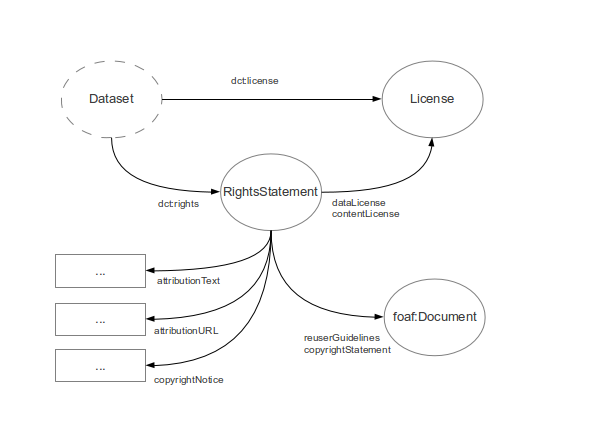
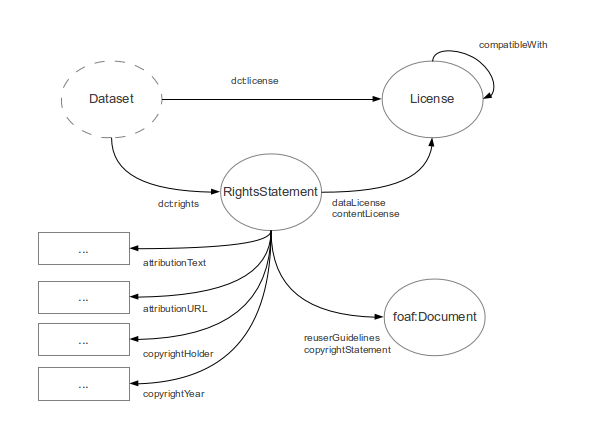
Added related work; compatibleWith; and changed copyrightNotice to copyrightHolder/Year

diff --git a/examples/rdfa-copyright-notice.html b/examples/rdfa-copyright-notice.html
@@ -17,7 +17,8 @@
 
                 <p>When re-using or distributing this data please preserve the 
                    following copyright notice: "
-                    <span property="odrs:copyrightNotice">© Crown copyright 2013. Example Department
+                    © <span property="odrs:copyrightNotice">Crown copyright</span> 
+                      <span property="odrs:copyrightYear">2013</span>. Example Department
                     </span>".
                 </p>
 

diff --git a/guides/publisher-guide.md b/guides/publisher-guide.md
@@ -95,27 +95,29 @@ The goal of the ODRS vocabulary, and for machine-readable dataset metadata in ge
 
 Copyright notices are another important item of metadata that might usefully be added to a rights statement. Some open licenses, particularly those from the Creative Commons state that re-users should display any copyright notices provided by publishers.
 
-If you hold copyright over some part of your dataset, you may wish to publish a copyright notice for re-users. This can be useful as it will support re-users in displaying or referencing a copyright notice or preserving a notice when redistributing data, if this is allowed by your data license.
+If you hold copyright over some part of your dataset, you _may_ wish to publish a copyright notice for re-users. This can be useful as it will support re-users in displaying or referencing a copyright notice or preserving a notice when redistributing data, if this is required by your licenses.
 
-The ODRS vocabulary includes two terms for capturing copyright notice information:
+The ODRS vocabulary includes several terms for capturing copyright notice information:
 
-* `copyrightNotice` -- this property allows a data publisher to specify a short copyright notice that can be used directly.
-* `copyrightStatement` -- this property allows you specify a URL for the copyright statement. This can be used an alternative to `copyrightNotice`, instead providing a link to a web page that describes the copyright status of the dataset and any relevant notices. A re-user would link to this page, rather than including your copyright notice. This can be useful if your copyright notices are lengthy, e.g. if you have to reference several sources.
+* `copyrightHolder` and `copyrightYear` -- allows the copyright holder to be named, along with the year from which the copyright is claim.
+* `copyrightStatement` -- this property allows you specify a URL for the copyright statement. This can be used an alternative to the other properties, providing a link to a web page that describes the copyright status of the dataset and any relevant notices. A re-user would link to this page, rather than including your copyright notice. This can be useful if your copyright notices are lengthy, e.g. if you have to reference several sources.
 
-As a general guide you should keep your copyright notices short and the text should be distinct from your `attributionText`. Wikipedia includes some notes on the [technical requirements for copyright notices](http://en.wikipedia.org/wiki/Copyright_notice#Technical_requirements) and there is generally specific advice available from your national copyright agency. See for example [guidance from the UK Copyright Service](http://www.copyrightservice.co.uk/copyright/p03_copyright_notices) and [the US Copyright Office](http://www.copyright.gov/circs/circ03.pdf).
+Copyright notices are distinct from attribution text. Wikipedia provides some notes on the [technical requirements for copyright notices](http://en.wikipedia.org/wiki/Copyright_notice#Technical_requirements) and there is generally specific advice available from your national copyright agency. See for example [guidance from the UK Copyright Service](http://www.copyrightservice.co.uk/copyright/p03_copyright_notices) and [the US Copyright Office](http://www.copyright.gov/circs/circ03.pdf).
 
-Generally, unless there is specific guidance that applies to your organisation or region, then it is recommended that a copyright notice consist of:
+The general convention for copyright notices is that they consist of:
 
 * The phrase "_Copyright_"
-* The copyright symbol
+* and/or the copyright symbol
 * The year of copyright
 * The copyright owners name, or a well-known alias
 
 E.g. "_Copyright © 2013. Example, Ltd_".
 
-The copyright owners name may overlap with the attribution text, but may also be different. The attribution text should not contain a copyright symbol or the word "Copyright" and instead be the name of the organisation or group who should be attributed. Separately and clearly marking up these different elements will provide more flexibility for re-users.
+This format can be easily created from the `copyrightHolder` and `copyrightYear` properties, whilst also supporting other uses of that information.
 
-For example an `attributionText` of _Dept of Data_ and _© Crown copyright 2013_ could be combined in several ways, e.g.:
+Attribution text should be distinct from copyright notices. Attribution text should not contain a copyright symbol or the word "Copyright". It should instead be the name of the organisation or group whose work should be attributed. Separately and clearly marking up these different elements will provide more flexibility for re-users.
+
+For example an `attributionText` of _Dept of Data_, a `copyrightHolder` of _Crown copyright_ and a `copyrightYear` of _2013_ could be combined in several ways, e.g.:
 
 * To create a phrase to be added in a web page footer: _Uses data from Dept. of Data. © Crown copyright 2013_
 * To build an attribution link for a data element on a page (_Data from Dept. of Data_), whilst the copyright statement is referenced in the footer of the page (_© Crown copyright 2013. Dept of Data_)
@@ -285,8 +287,8 @@ The ODRS vocabulary captures copyright information separately to attribution tex
 
                 <p>When re-using or distributing this data please preserve the 
                    following copyright notice: "
-                    <span property="odrs:copyrightNotice">© Crown copyright 2013. Example Department
-                    </span>".
+                    © <span property="odrs:copyrightHolder">Crown copyright</span> 
+                    <span property="odrs:copyrightYear">2013</span>.".
                 </p>
 
                 <p>If you would like to attribute your use of this dataset, 
@@ -310,7 +312,7 @@ The ODRS vocabulary captures copyright information separately to attribution tex
             <!-- additional markup with further description of dataset -->
         </div>        
 
-The Rights Statement includes a `odrs:copyrightNotice` property in addition to the attribution properties used in the previous examples. An application might choose to display the copyright notice differently to the attribution text, e.g. including it in a general copyright notice section of the application website or in a copyright statement document included in a re-distributed version of the dataset.
+The Rights Statement includes both the `odrs:copyrightHolder` and `odrs:copyrightYear` properties in addition to the attribution properties used in the previous examples. An application might choose to display the copyright notice differently to the attribution text, e.g. including it in a general copyright notice section of the application website or in a copyright statement document included in a re-distributed version of the dataset.
 
 In some cases it may be more suitable to provide a link to a copyright statement, e.g. if the text of the copyright notice is lengthy or subject to change. In this case the `odrs:copyrightStatement` property can be used instead. The following rights statement illustrates use of this property:
 
@@ -456,7 +458,8 @@ The following example illustrates how add a copyright notice and a reference to 
     :example3-rights-statement
         a odrs:RightsStatement;
         rdfs:label "Rights relating to re-use of the Example Dataset" ;
-        odrs:copyrightNotice "Crown copyright 2013";
+        odrs:copyrightHolder "Crown copyright";
+        odrs:copyrightYear "2013";
         odrs:reuserGuidelines <http://gov.example.org/reuser-guide>;
         odrs:dataLicense <http://reference.data.gov.uk/id/open-government-licence> ;
         odrs:attributionText "Example Department" ;
@@ -489,6 +492,8 @@ The following example illustrates how to combine [the Creative Commons vocabular
 The above example includes a rights statement that refers to a custom licence. The licence is described using terms from the Creative Commons vocabulary including a link to its legal definition and a series of permissions and requirements. 
 
 This particular licence is a variation of the CC-BY licence: it permits the creation of derivative works, distribution and reproduction of the data and the re-user must include all copyright notices and license derivatives using similar terms; but there is no _legal_ requirement to include attribution.
+
+Like `ccREL` the [ODRL](http://www.w3.org/community/odrl/) vocabulary aims to provide more detailed expression of re-use policies and can be similarly combined with the ODRS vocabulary.
 
 ### Linking to Rights Statements from Web APIs
 
@@ -527,7 +532,8 @@ The following example shows a simple JSON object that describes a simple, standa
         {
             "contentLicense": "http://reference.data.gov.uk/id/open-government-licence",
             "dataLicense": "http://reference.data.gov.uk/id/open-government-licence",
-            "copyrightNotice": "© Crown copyright 2013",
+            "copyrightNotice": "Crown copyright",
+            "copyrightYear": "2013",
             "attributionText": "Example Department",
             "attributionURL": "http://gov.example.org/dataset/example"
         }
@@ -542,7 +548,8 @@ To include a rights statement in a document that also, for example, describes a 
             "rights": {
                 "contentLicense": "http://reference.data.gov.uk/id/open-government-licence",
                 "dataLicense": "http://reference.data.gov.uk/id/open-government-licence",
-                "copyrightNotice": "© Crown copyright 2013",
+                "copyrightNotice": "Crown copyright",
+                "copyrightYear": "2013",
                 "attributionText": "Example Department",
                 "attributionURL": "http://gov.example.org/dataset/example"
             }
@@ -601,7 +608,8 @@ The JSON-LD context available from `http://schema.theodi.org/odrs/odrs-jsonld.js
                 "@id": "http://schema.theodi.org/odrs#copyrightStatement",
                 "@type": "@id"
             },
-            "copyrightNotice": "http://schema.theodi.org/odrs#copyrightNotice",
+            "copyrightHolder": "http://schema.theodi.org/odrs#copyrightHolder",
+            "copyrightYear": "http://schema.theodi.org/odrs#copyrightYear",
             "attributionText": "http://schema.theodi.org/odrs#attributionText"
         }
     }
@@ -629,7 +637,8 @@ The following final example shows a single JSON-LD document that contains a desc
         "dct:rights": {
             "rdfs:label": "Rights Statement",
             "@id": "http://gov.example.org/dataset/example#rights",
-            "odrs:copyrightNotice": "© Crown copyright 2013",
+            "odrs:copyrightHolder": "Crown copyright",
+            "odrs:copyrightYear": "2013", 
             "odrs:attributionText": "Example Department",
             "odrs:attributionURL": {
                 "@id": "http://gov.example.org/dataset/example"

diff --git a/schema/introduction.md b/schema/introduction.md
@@ -21,8 +21,10 @@ There are several existing vocabularies cover similar goals, but all have their 
 * [Dublin Core](http://dublincore.org/documents/dcmi-terms/) distinguishes between a licence (`dct:License`) and a rights statement (`dct:RightsStatement`) and provides terms for relating a work to a machine-readable descriptions of these documents using the `dct:rights` and `dct:license` properties.
 * The [Creative Commons vocabulary](http://creativecommons.org/ns) (ccRel) supports the publication of machine-readable descriptions of broad classes of requirements, permissions and prohibitions that are associated with licences. It also includes some terms to support attribution.
 * The [Waiver](http://vocab.org/waiver/terms/.html) vocabulary supports the association of public domain waivers and community norms with a dataset
+* The [Open Data Rights Language](http://www.w3.org/community/odrl/) (ODRL) provides a standard means for expressing policies relating to the publishing, distribution and consumption of digital media.
+* Similarly, the [L4LOD](http://ns.inria.fr/l4lod/v2/l4lod_v2.html) and [LIMO](http://data.opendataday.it/LiMo/) vocabularies similar
 
-These vocabularies provide some necessary foundations for publishing rights statements, but each has its own limitations
+These vocabularies provide some of the necessary foundations for publishing rights statements, but each has its own limitations. As described in the next section, the ODRS vocabulary is intended to support the publication of "rights statements" that annotate the relationship between a dataset and its license information.
 
 ## Design Rationale
 
@@ -47,7 +49,7 @@ A Rights Statement might apply to an individual Dataset. But it could equally be
 
 The vocabulary does not provide a definition of dataset. This is intentionally under-specified to support the use of the vocabulary in a number of ways. The existing [Dublin Core](http://dublincore.org/documents/dcmi-terms/) terms (`dct:rights` and `dct:license`) can be used to relate a dataset to a `odrs:RightsStatement` or a licence.
 
-Similarly, this vocabulary intentionally does not attempt to support the machine-readable description of the terms of a specific license. This is already adequately covered by the [ccRel](http://creativecommons.org/ns) vocabulary.
+Similarly, this vocabulary intentionally does not attempt to support the machine-readable description of the terms of a specific license. This is already adequately covered by the [ccRel](http://creativecommons.org/ns) and [ODRL](http://www.w3.org/community/odrl/) vocabularies. The ODRS vocabulary is aimed at supporting a simple, common case of publishing open data using standard licenses. However it is compatible with efforts to create machine-readable expressions of licenses and policies.
 
 ## Schema Diagram
 
@@ -55,3 +57,10 @@ The following diagram shows the key resources, relationships and properties defi
 
 ![Schema diagram](diagram.png)
 
+## Recent Changes
+
+For a full history of changes view [the source files in github](https://github.com/theodi/open-data-licensing/tree/master/schema). The following lists some of the main recent changes:
+
+* Removed `copyrightNotice` and replaced it with `copyrightHolder` and `copyrightYear`. The `copyrightStatement` property is retained for pointing to more complete copyright statements.
+* Added `compatibleWith` property to declaring compatibility between licenses
+* Added links to L4LOD, LIMO and ODRL in Related Work section

diff --git a/guides/reusers-guide.md b/guides/reusers-guide.md
@@ -23,7 +23,7 @@ In most cases these properties will be the starting point for discovering machin
 
 A `odrs:RightsStatement` resource may have several properties that can be useful in your application:
 
-* The `odrs:copyrightNotice` and `odrs:copyrightStatement` properties respectively provide the text or a link to a copyright statement that applies to the dataset you are using. Some licences, including those from the Creative Commons, require you to preserve copyright notices provided by the data publisher. These properties allow you to include a short notice in your application or a link to a fuller copyright statement.
+* The `odrs:copyrightHolder`, `odrs:copyrightYear` and `odrs:copyrightStatement` properties provide guidance on creating a copyright notice or a link to a copyright statement that applies to the dataset you are using. Some licences, including those from the Creative Commons, require you to preserve copyright notices provided by the data publisher. These properties allow you to include a short notice in your application or a link to a fuller copyright statement.
 * The `attributionText` and `attributionURL` properties provide the means for publishers to describe their preferred form of attribution
 
 A Rights Statement might be published alongside a description of a dataset, e.g. as embedded metadata expressed using RDFa. However they might also be published separately, e.g. as a standalone web page or document that is referenced by several datasets.
@@ -80,11 +80,9 @@ While the example properties used in the algorithm draw heavily on DCAT, it shou
 
 Some licenses may require you to display or preserve copyright notices that are provided by data publishers. For example you may need to retain notices when re-distributing data. 
 
-A copyright notice is defined using the `copyrightNotice` property, and will typically be a short phrase, e.g. _© Crown copyright 2013_, or _Copyright © 2013, Example Ltd_
+A basic copyright notice is defined using the `copyrightHolder` and `copyrightYear` properties. You should also consider displaying any copyright notices found in a rights statement. A simple approach is to include the notice alongside your attribution text and link, e.g.:
 
-You should also consider displaying any copyright notices found in a rights statement. A simple approach is to include the notice alongside your attribution text and link, e.g.:
-
-    <span>Uses data from <a href="http://example.org/attribution-link">Example Ltd</a>. © Crown copyright 2013 Example, Ltd.</span>
+    <span>Uses data from <a href="http://example.org/attribution-link">Example Ltd</a>. © Copyright 2013 Example, Ltd.</span>
 
 If the data publisher has included a `copyrightStatement` link, but has not included any notice text, then you can build a link as follows:
 
